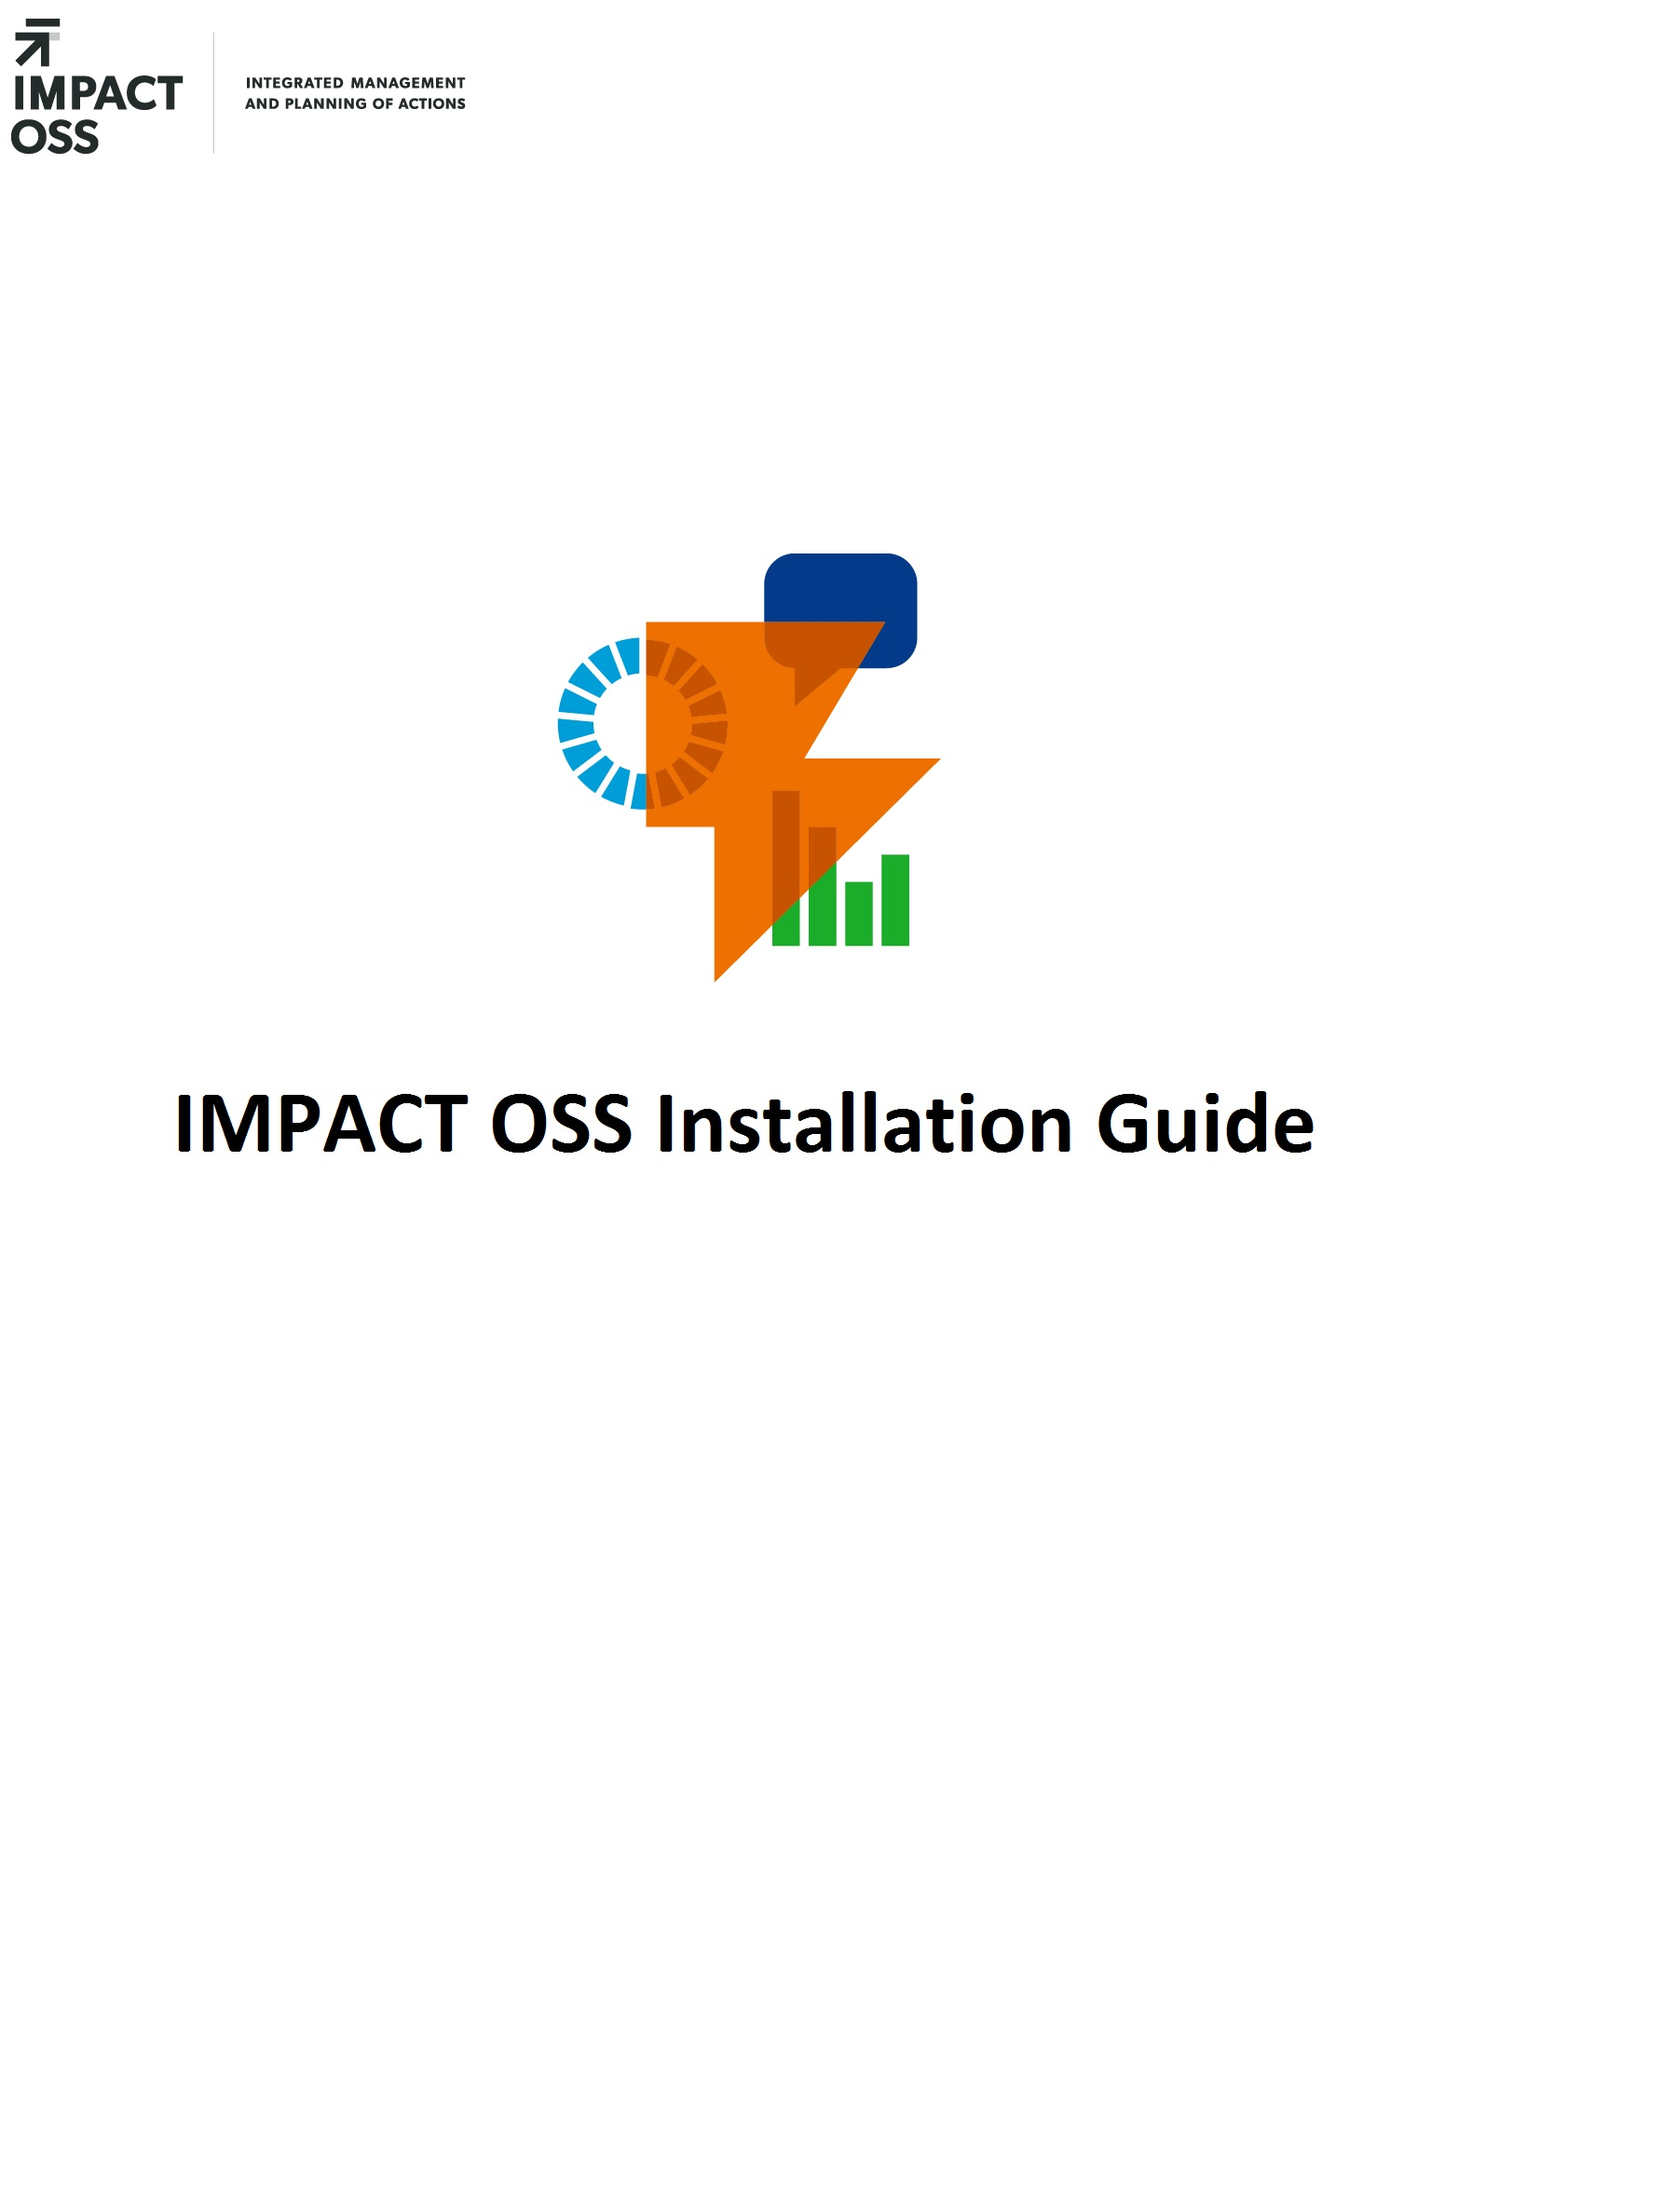
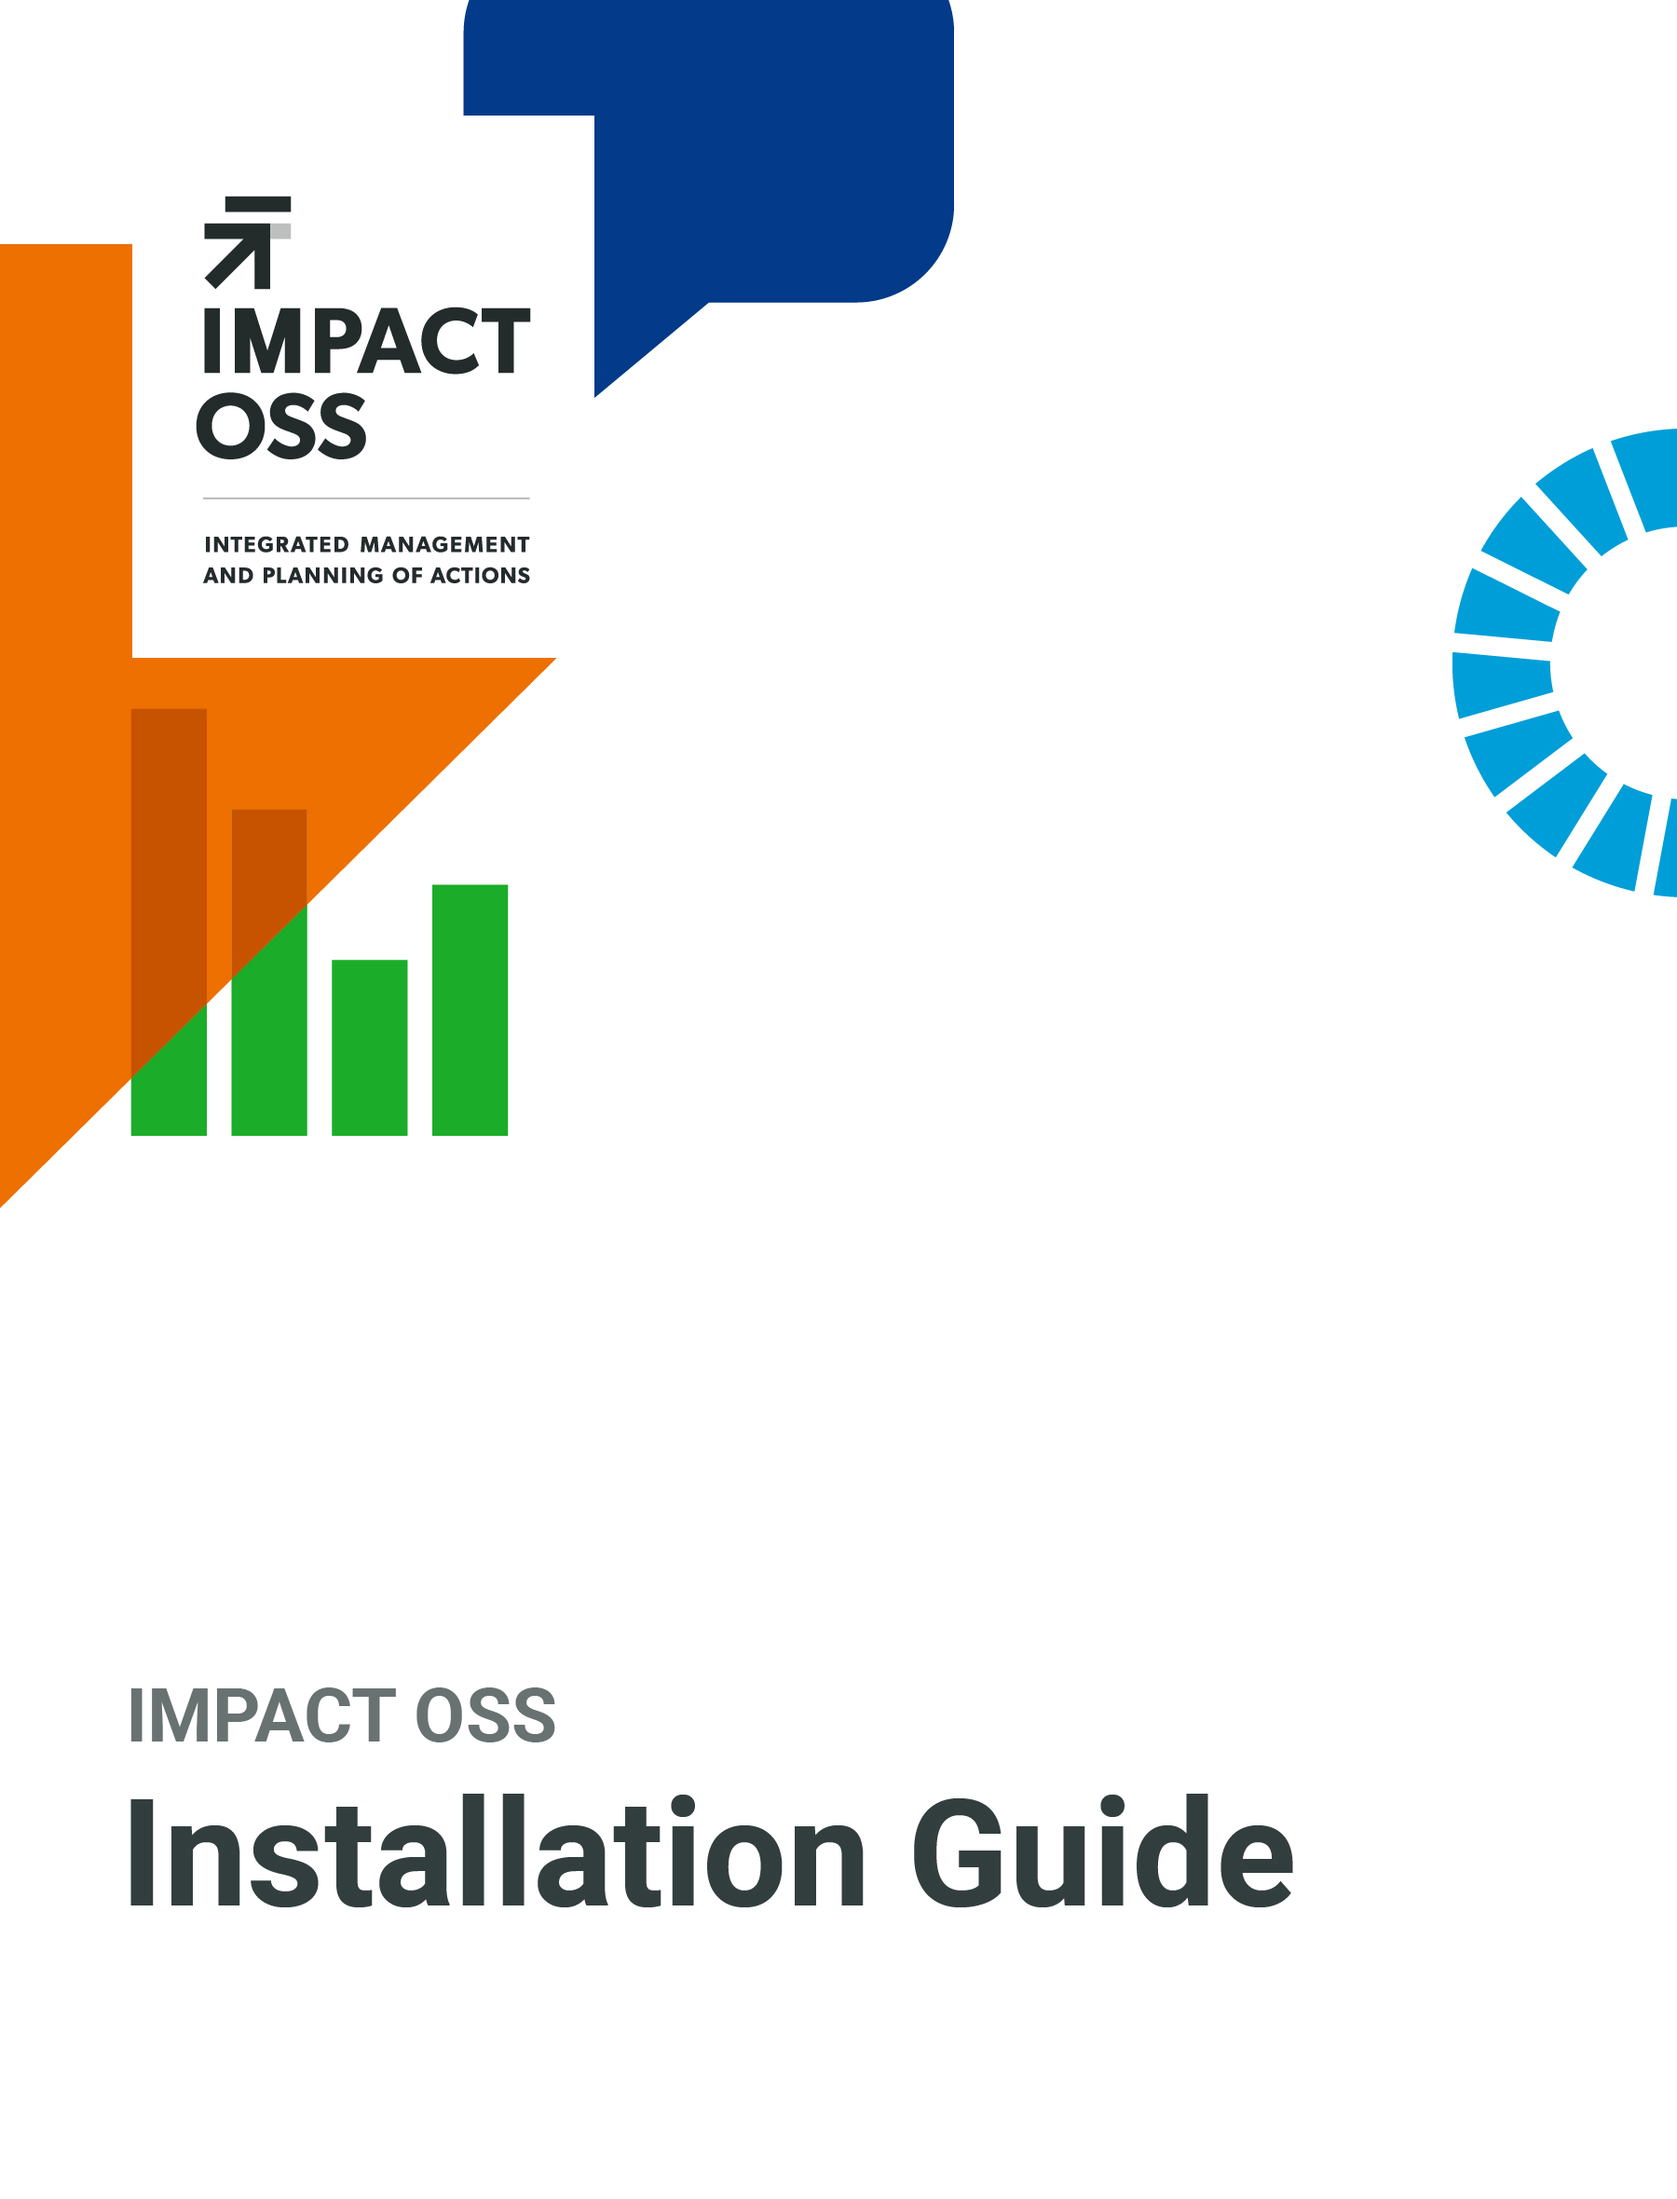
update graphics

diff --git a/README.md b/README.md
@@ -1,4 +1,4 @@
-![](/assets/logo.png)
+![](/assets/header.png)
 # Installation Guide
 
 This installation guide provides detailed instructions on how to configure and install IMPACT OSS. To start go to
